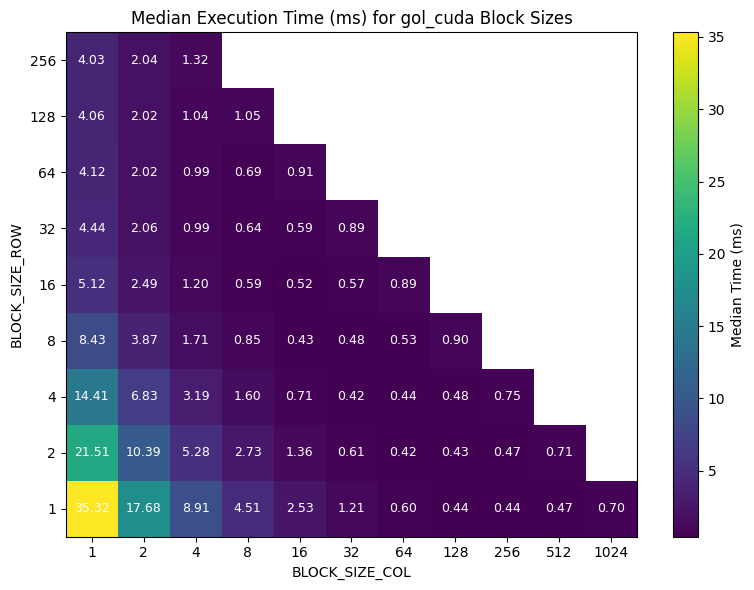
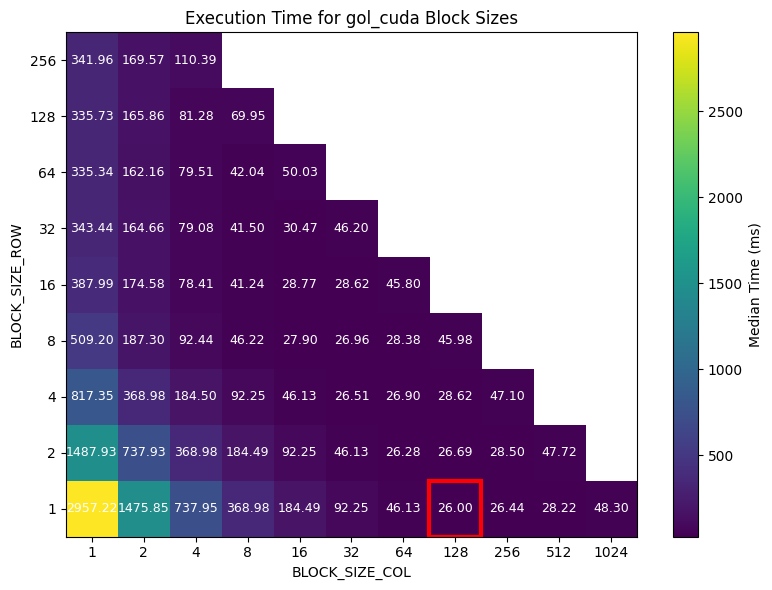
Add a cuda kernel that does vectorized loads

diff --git a/main.py b/main.py
@@ -3,6 +3,8 @@ import torch
 import triton
 import triton.language as tl
 import matplotlib.pyplot as plt
+from torch.utils.cpp_extension import load_inline
+
 
 
 # %%
@@ -15,14 +17,14 @@ device = torch.device('cuda:0')
 
 WEIGHT_F16 = torch.tensor([[1, 1, 1], [1, 0, 1], [1, 1, 1]])[None, None, :, :].to(torch.float16).to(device)
 
-def gol_torch_conv2d(x: torch.Tensor):
+def gol_torch_conv2d(x: torch.Tensor) -> torch.Tensor:
     y = torch.nn.functional.conv2d(x[None, :, :].to(dtype=torch.float16), WEIGHT_F16)[0].to(torch.int8)
     y = torch.nn.functional.pad(y, (1, 1, 1, 1), value=0)
     y = torch.where(x > 0, (y == 2) | (y == 3), (y == 3)).to(torch.int8)
     return y
 
 @torch.compile
-def gol_torch_conv2d_compiled(x: torch.Tensor):
+def gol_torch_conv2d_compiled(x: torch.Tensor) -> torch.Tensor:
     return gol_torch_conv2d(x)
 
 # %%
@@ -50,6 +52,13 @@ def gol_torch_sum(x: torch.Tensor):
             y[1:-1, 1:-1] += x[s1, s2]
 
     return torch.where(x == 1, (y == 2) | (y == 3), (y == 3)).to(torch.int8)    
+
+def gol_torch_sum(x: torch.Tensor) -> torch.Tensor:
+    y = x[2:] + x[1:-1] + x[:-2]
+    z = y[:, 2:] + y[:, 1:-1] + y[:, :-2]
+    z = torch.nn.functional.pad(z, (1, 1, 1, 1), value=0)
+    return ((x == 1) & (z == 4)) | (z == 3).to(torch.int8)
+
 
 @torch.compile
 def gol_torch_sum_compiled(x: torch.Tensor):
@@ -185,8 +194,6 @@ def is_notebook() -> bool:
 #     sys.exit()
 
 # %%
-import torch
-from torch.utils.cpp_extension import load_inline
 
 ext = None
 def init_ext():
@@ -203,15 +210,12 @@ def init_ext():
 def gol_cuda(x: torch.Tensor, BLOCK_SIZE_ROW: int = None, BLOCK_SIZE_COL: int = None):
     if ext is None: init_ext()
     if BLOCK_SIZE_ROW is None and BLOCK_SIZE_COL is None:
-        BLOCK_SIZE_ROW = 4
-        BLOCK_SIZE_COL = 64
+        BLOCK_SIZE_ROW = 1
+        BLOCK_SIZE_COL = 128
     output = torch.empty_like(x)
     ext.gol(x, output, BLOCK_SIZE_ROW, BLOCK_SIZE_COL)
     return output
 # %%
-import torch
-from torch.utils.cpp_extension import load_inline
-
 ext2 = None
 
 def init_ext2():
@@ -229,6 +233,28 @@ def gol_cuda_shared_memory(x: torch.Tensor):
     if ext2 is None: init_ext2()
     output = torch.empty_like(x)
     ext2.gol(x, output)
+    return output
+# %%
+ext3 = None
+
+def init_ext3():
+    global ext3
+    ext3 = load_inline(
+        name="gol3_ext",
+        cpp_sources="",            # no separate C++ binding file
+        cuda_sources=[open("kernel3.cpp").read()],   # contains both kernel and PYBIND11 module
+        with_cuda=True,
+        extra_cuda_cflags=["-O3"],
+        verbose=True,
+    )
+
+def gol_cuda_32bit(x: torch.Tensor, BLOCK_SIZE_ROW: int = None, BLOCK_SIZE_COL: int = None):
+    if ext3 is None: init_ext3()
+    if BLOCK_SIZE_ROW is None and BLOCK_SIZE_COL is None:
+        BLOCK_SIZE_ROW = 1
+        BLOCK_SIZE_COL = 1024
+    output = torch.empty_like(x)
+    ext3.gol(x, output, BLOCK_SIZE_ROW, BLOCK_SIZE_COL)
     return output
 
 # %%
@@ -974,8 +1000,8 @@ IS_ROOFLINE = False
         x_names=['N'],
         x_vals=[512 * i for i in range(2, 32 + 1, 2)],
         line_arg='provider',
-        line_vals=['torch', 'compiled_torch', 'triton', 'cuda', 'triton_32bit'],
-        line_names=['Torch', 'Compiled Torch', 'Triton', 'Cuda', 'Triton 32bit'],
+        line_vals=['torch', 'compiled_torch', 'triton', 'cuda', 'triton_32bit', 'cuda_shared_memory', 'cuda_32bit'],
+        line_names=['Torch', 'Compiled Torch', 'Triton', 'Cuda', 'Triton 32bit', 'Cuda Shared Memory', 'Cuda 32bit'],
         ylabel='ms',
         plot_name='gol main',
         args={}
@@ -994,8 +1020,10 @@ def benchmark(provider, N):
         ms, min_ms, max_ms = triton.testing.do_bench(lambda: gol_triton_1d(x), quantiles=quantiles, rep=500)
     elif provider == 'cuda':
         ms, min_ms, max_ms = triton.testing.do_bench(lambda: gol_cuda(x), quantiles=quantiles, rep=500)
-    elif provider == 'cuda2':
+    elif provider == 'cuda_shared_memory':
         ms, min_ms, max_ms = triton.testing.do_bench(lambda: gol_cuda_shared_memory(x), quantiles=quantiles, rep=500)
+    elif provider == 'cuda_32bit':
+        ms, min_ms, max_ms = triton.testing.do_bench(lambda: gol_cuda_32bit(x), quantiles=quantiles, rep=500)
     elif provider == 'triton_8bit':
         x = bit_encode(x)
         ms, min_ms, max_ms = triton.testing.do_bench(lambda: gol_triton_8bit_1d(x), quantiles=quantiles, rep=500)
@@ -1057,7 +1085,8 @@ benchmark.run(print_data=True, show_plots=True)
 @triton.testing.perf_report(
     triton.testing.Benchmark(
         x_names=['N'],
-        x_vals=[8*512 * i for i in range(2, 32, 2)],
+        # x_vals=[8*512 * i for i in range(2, 32, 2)],
+        x_vals=[2**16],
         line_arg='provider',
         line_vals=['triton_8bit', 'triton_32bit', 'triton_64bit'],
         line_names=['Triton 8bit', 'Triton 32bit', 'Triton 64bit'],
@@ -1089,7 +1118,7 @@ benchmark.run(print_data=True, show_plots=True)
 @triton.testing.perf_report(
     triton.testing.Benchmark(
         x_names=['N'],
-        x_vals=[512 * i for i in range(2, 16, 2)],
+        x_vals=[2**16],
         line_arg='provider',
         line_vals=['torch', 'compiled_torch', 'triton', 'torch_f16', 'compiled_torch_f16', 'torch_sum', 'compiled_torch_sum'],
         line_names=['Torch', 'Compiled Torch', 'Triton', 'Torch F16', 'Compiled Torch F16', 'Torch Sum', 'Compiled Torch Sum'],
@@ -1131,19 +1160,20 @@ benchmark.run(print_data=True, show_plots=True)
 @triton.testing.perf_report(
     triton.testing.Benchmark(
         x_names=['N'],
-        x_vals=[512 * i for i in range(2, 32 + 1, 2)],
+        # x_vals=[512 * i for i in range(2, 32 + 1, 2)],
+        x_vals=[2**16],
         line_arg='provider',
-        line_vals=['compiled_torch', 'cuda', 'cuda_shared_memory'],
-        line_names=['Compiled Torch', 'Cuda', 'Cuda Shared Memory'],
+        line_vals=['compiled_torch', 'cuda', 'cuda_shared_memory', 'cuda_32bit'],
+        line_names=['Compiled Torch', 'Cuda', 'Cuda Shared Memory', 'Cuda 32bit'],
         ylabel='ms',
-        plot_name='gol bit variants',
+        plot_name='gol cuda variants',
         args={}
     ))
 def benchmark(provider, N):
     print(provider, N)
     # create data
     x_shape = (N, N)
-    x = (torch.rand(x_shape, device=device) < 0.5).to(torch.int8).to(device)
+    x = torch.randint(0, 1, x_shape, device=device, dtype=torch.int8)
     quantiles = [0.5, 0.2, 0.8]
     if provider == 'compiled_torch':
         ms, min_ms, max_ms = triton.testing.do_bench(lambda: gol_torch_conv2d_compiled(x), quantiles=quantiles, rep=500)
@@ -1151,6 +1181,8 @@ def benchmark(provider, N):
         ms, min_ms, max_ms = triton.testing.do_bench(lambda: gol_cuda(x), quantiles=quantiles, rep=500)
     elif provider == 'cuda_shared_memory':
         ms, min_ms, max_ms = triton.testing.do_bench(lambda: gol_cuda_shared_memory(x), quantiles=quantiles, rep=500)
+    elif provider == 'cuda_32bit':
+        ms, min_ms, max_ms = triton.testing.do_bench(lambda: gol_cuda_32bit(x), quantiles=quantiles, rep=500)
     else:
         raise ValueError(f"Invalid provider: {provider}")
     return ms, min_ms, max_ms
@@ -1186,16 +1218,22 @@ benchmark.run(print_data=True, show_plots=True)
 # %%
 # Test 2d block sizes
 
+TEST_FN = gol_cuda_32bit
+MAX_BLOCK_SIZE = 10 if TEST_FN == gol_cuda else 12
+IS_TRITON = TEST_FN == gol_triton_2d
+
 block_sizes = [
-    (1 * (2**i), 1 * (2**j)) for i in range(0, 9) for j in range(0 , 12)
-    if i + j < 11
+    (1 * (2**i), 1 * (2**j)) for i in range(0, 9) for j in range(0, MAX_BLOCK_SIZE + 1)
+    if i + j < MAX_BLOCK_SIZE
+    if (j >= 2 if TEST_FN == gol_cuda_32bit else True)
 ]
 def block_str(size):
     return str(size[0]) + "x" + str(size[1])
 @triton.testing.perf_report(
     triton.testing.Benchmark(
         x_names=['N'],
-        x_vals=[512 * i for i in range(2, 16, 2)],
+        # x_vals=[512 * i for i in range(2, 16, 2)],
+        x_vals=[2**16],
         line_arg='block_sizes',
         line_vals=block_sizes,
         line_names=[block_str(size) for size in block_sizes],
@@ -1207,18 +1245,18 @@ def block_str(size):
 def benchmark(block_sizes, N):
     # create data
     x_shape = (N, N)
-    x = (torch.rand(x_shape, device=device) < 0.5).to(torch.int8).to(device)
+    x = (torch.randint(0, 1, x_shape, device=device, dtype=torch.int8))
     quantiles = [0.5, 0.2, 0.8]
-    # ms, min_ms, max_ms = triton.testing.do_bench(lambda: gol_triton_2d(x, BLOCK_SIZE_ROW=block_sizes[0], BLOCK_SIZE_COL=block_sizes[1]), quantiles=quantiles, rep=500)
     print(block_sizes)
-    ms, min_ms, max_ms = triton.testing.do_bench(lambda: gol_cuda(x, BLOCK_SIZE_ROW=block_sizes[0], BLOCK_SIZE_COL=block_sizes[1]), quantiles=quantiles, rep=500)
+    ms, min_ms, max_ms = triton.testing.do_bench(lambda: TEST_FN(x, BLOCK_SIZE_ROW=block_sizes[0], BLOCK_SIZE_COL=block_sizes[1]), quantiles=quantiles, rep=500)
     return ms, min_ms, max_ms
 
 result = benchmark.run(return_df=True)
 
 result
-
 # %%
+
+#result['1x1'][0]= float('nan')
 
 row_sizes = set([size[0] for size in block_sizes])
 col_sizes = set([size[1] for size in block_sizes])
@@ -1229,7 +1267,7 @@ for row_size in row_sizes:
     for col_size in col_sizes:
         s = block_str((row_size, col_size))
         if s in result:
-            data[(row_size, col_size)] = result[s][6].item()
+            data[(row_size, col_size)] = result[s][0].item()
 
 import numpy as np
 
@@ -1251,13 +1289,25 @@ plt.figure(figsize=(8, 6))
 # Use 'viridis' colormap, 'lower' origin to have (0,0) at bottom-left, and 'auto' aspect ratio
 plt.imshow(heatmap_matrix, cmap='viridis', origin='lower', aspect='auto')
 
+# Find the minimum value and its coordinates
+min_value = np.nanmin(heatmap_matrix)
+min_row_idx, min_col_idx = np.unravel_index(np.nanargmin(heatmap_matrix), heatmap_matrix.shape)
+
+# Highlight the cell with the lowest value
+from matplotlib.patches import Rectangle
+current_ax = plt.gca()
+rect = Rectangle((min_col_idx - 0.5, min_row_idx - 0.5), 1, 1,
+                 linewidth=3, edgecolor='red', facecolor='none')
+current_ax.add_patch(rect)
+
+
 # Set ticks and labels for the axes
 plt.xticks(np.arange(len(sorted_col_sizes)), sorted_col_sizes)
 plt.yticks(np.arange(len(sorted_row_sizes)), sorted_row_sizes)
 
 plt.xlabel("BLOCK_SIZE_COL")
 plt.ylabel("BLOCK_SIZE_ROW")
-plt.title("Median Execution Time (ms) for gol_cuda Block Sizes")
+plt.title(f"Execution Time for gol_{TEST_FN.__name__} Block Sizes")
 
 # Add a colorbar to indicate the scale of execution times
 cbar = plt.colorbar()
@@ -1271,3 +1321,10 @@ for i in range(len(sorted_row_sizes)):
 
 plt.tight_layout() # Adjust plot to ensure everything fits without overlapping
 plt.show()
+
+# %%
+x = torch.randint(0, 1, (2**16, 2**16), device=device, dtype=torch.int8)
+out = torch.empty_like(x)
+k = gol_triton_2d_kernel.warmup(x, out, x.stride(0), x.shape[0], BLOCK_SIZE_ROW=4, BLOCK_SIZE_COL=256, grid=(1, 1))
+print(k.asm['llir'])
+# %%

diff --git a/kernel3.cpp b/kernel3.cpp
@@ -1,0 +1,88 @@
+
+#include <cuda_runtime.h>
+#include <torch/extension.h>
+#include <ATen/cuda/CUDAContext.h>
+
+__global__ void gol_kernel_i32(const int8_t* __restrict__ x_ptr, int8_t* __restrict__ out_ptr, int64_t rowstride, int64_t n) {
+  int64_t x = (blockIdx.x * blockDim.x + threadIdx.x) * 4;
+  int64_t y = blockIdx.y * blockDim.y + threadIdx.y;
+
+  if (!(y + 2 < n)) return;
+
+  if (!(x < n)) return;
+
+  // Vectorized read
+  uint32_t r00 =               *(uint32_t*)&x_ptr[y * rowstride + 0 * rowstride + x + 0];
+  uint32_t r01 = (x + 4 < n) ? *(uint32_t*)&x_ptr[y * rowstride + 0 * rowstride + x + 4] : 0;
+
+  uint32_t r10 =               *(uint32_t*)&x_ptr[y * rowstride + 1 * rowstride + x + 0];
+  uint32_t r11 = (x + 4 < n) ? *(uint32_t*)&x_ptr[y * rowstride + 1 * rowstride + x + 4] : 0;
+
+  uint32_t r20 =               *(uint32_t*)&x_ptr[y * rowstride + 2 * rowstride + x + 0];
+  uint32_t r21 = (x + 4 < n) ? *(uint32_t*)&x_ptr[y * rowstride + 2 * rowstride + x + 4] : 0;
+
+  // As each cell has 8 bits, but only takes value 0 or 1, we can sum
+  // over rows without overflow
+
+  uint32_t s0 = r00 + r10 + r20;
+  uint32_t s1 = r01 + r11 + r21;
+
+  // Bit shift to sum across columns
+  uint32_t s = s0 + (s0 >> 8) + (s0 >> 16) + (s1 << 16) + (s1 << 24);
+
+  // Extract the sums
+  uint32_t sum0 = (s >> 0) & 0xFF;
+  uint32_t sum1 = (s >> 8) & 0xFF;
+  uint32_t sum2 = (s >> 16) & 0xFF;
+  uint32_t sum3 = (s >> 24) & 0xFF;
+
+  uint32_t alive0 = (r10 >> 0) & 1;
+  uint32_t alive1 = (r10 >> 1) & 1;
+  uint32_t alive2 = (r10 >> 2) & 1;
+  uint32_t alive3 = (r10 >> 3) & 1;
+
+  uint8_t result0 = (alive0 & (sum0 == 4)) | (sum0 == 3);
+  int8_t result1 = (alive1 & (sum1 == 4)) | (sum1 == 3);
+  uint8_t result2 = (alive2 & (sum2 == 4)) | (sum2 == 3);
+  uint8_t result3 = (alive3 & (sum3 == 4)) | (sum3 == 3);
+
+  // We write out per byte as it's not aligned to 32 bits
+                 out_ptr[(y + 1) * rowstride + (x + 1)] = result0;
+                 out_ptr[(y + 1) * rowstride + (x + 2)] = result1;
+                 out_ptr[(y + 1) * rowstride + (x + 3)] = result2;
+  if (x + 4 < n) out_ptr[(y + 1) * rowstride + (x + 4)] = result3;
+}
+
+void gol(torch::Tensor x, torch::Tensor out, int block_size_row, int block_size_col) {
+  TORCH_CHECK(x.is_cuda(), "x must be CUDA tensors");
+  TORCH_CHECK(x.scalar_type() == at::kChar, "only int8");
+  TORCH_CHECK(x.stride(1) == 1, "colstride must be 1");
+  TORCH_CHECK(x.dim() == 2, "x must be 2D");
+  TORCH_CHECK(x.size(0) == x.size(1), "x must be square");
+  TORCH_CHECK(out.is_cuda(), "out must be CUDA tensors");
+  TORCH_CHECK(out.scalar_type() == at::kChar, "only int8");
+  TORCH_CHECK(out.stride(1) == 1, "colstride must be 1");
+  TORCH_CHECK(out.dim() == 2, "out must be 2D");
+  TORCH_CHECK(out.size(0) == x.size(0), "out must have the same height");
+  TORCH_CHECK(out.size(1) == x.size(1), "out must have the same width");
+
+  TORCH_CHECK(block_size_col % 4 == 0, "block_size_col must be divisible by 4");
+  TORCH_CHECK(x.size(0) % 4 == 0, "n must be divisible by 4");
+
+  const long n = x.size(0);
+  const int block_size_col32 = block_size_col / 4;
+  const int row_blocks  = (n - 2 + block_size_row - 1) / block_size_row;
+  const int col_blocks  = (n - 2 + block_size_col - 1) / block_size_col32;
+  auto stream = at::cuda::getCurrentCUDAStream();
+
+  dim3 grid(col_blocks, row_blocks);
+  dim3 block(block_size_col32, block_size_row);
+
+  gol_kernel_i32<<<grid, block, 0, stream>>>(
+      x.data_ptr<int8_t>(), out.data_ptr<int8_t>(), x.stride(0), n);
+  TORCH_CHECK(cudaGetLastError() == cudaSuccess, "kernel launch failed");
+}
+
+PYBIND11_MODULE(TORCH_EXTENSION_NAME, m) {
+  m.def("gol", &gol, "gol (CUDA, int8)");
+}

diff --git a/kernel2.cpp b/kernel2.cpp
@@ -68,7 +68,7 @@ void gol(torch::Tensor x, torch::Tensor out) {
 
   constexpr int BLOCK_Y = 4;
   constexpr int BLOCK_X = 64;
-  constexpr int PAD = 14;            // try {0,2,4,8}; 2 or 4 often helps on byte stencils
+  constexpr int PAD = 0;            // try {0,2,4,8}; 2 or 4 often helps on byte stencils
 
   dim3 block(BLOCK_X, BLOCK_Y);
   dim3 grid((W - 2 + BLOCK_X - 1) / BLOCK_X,
